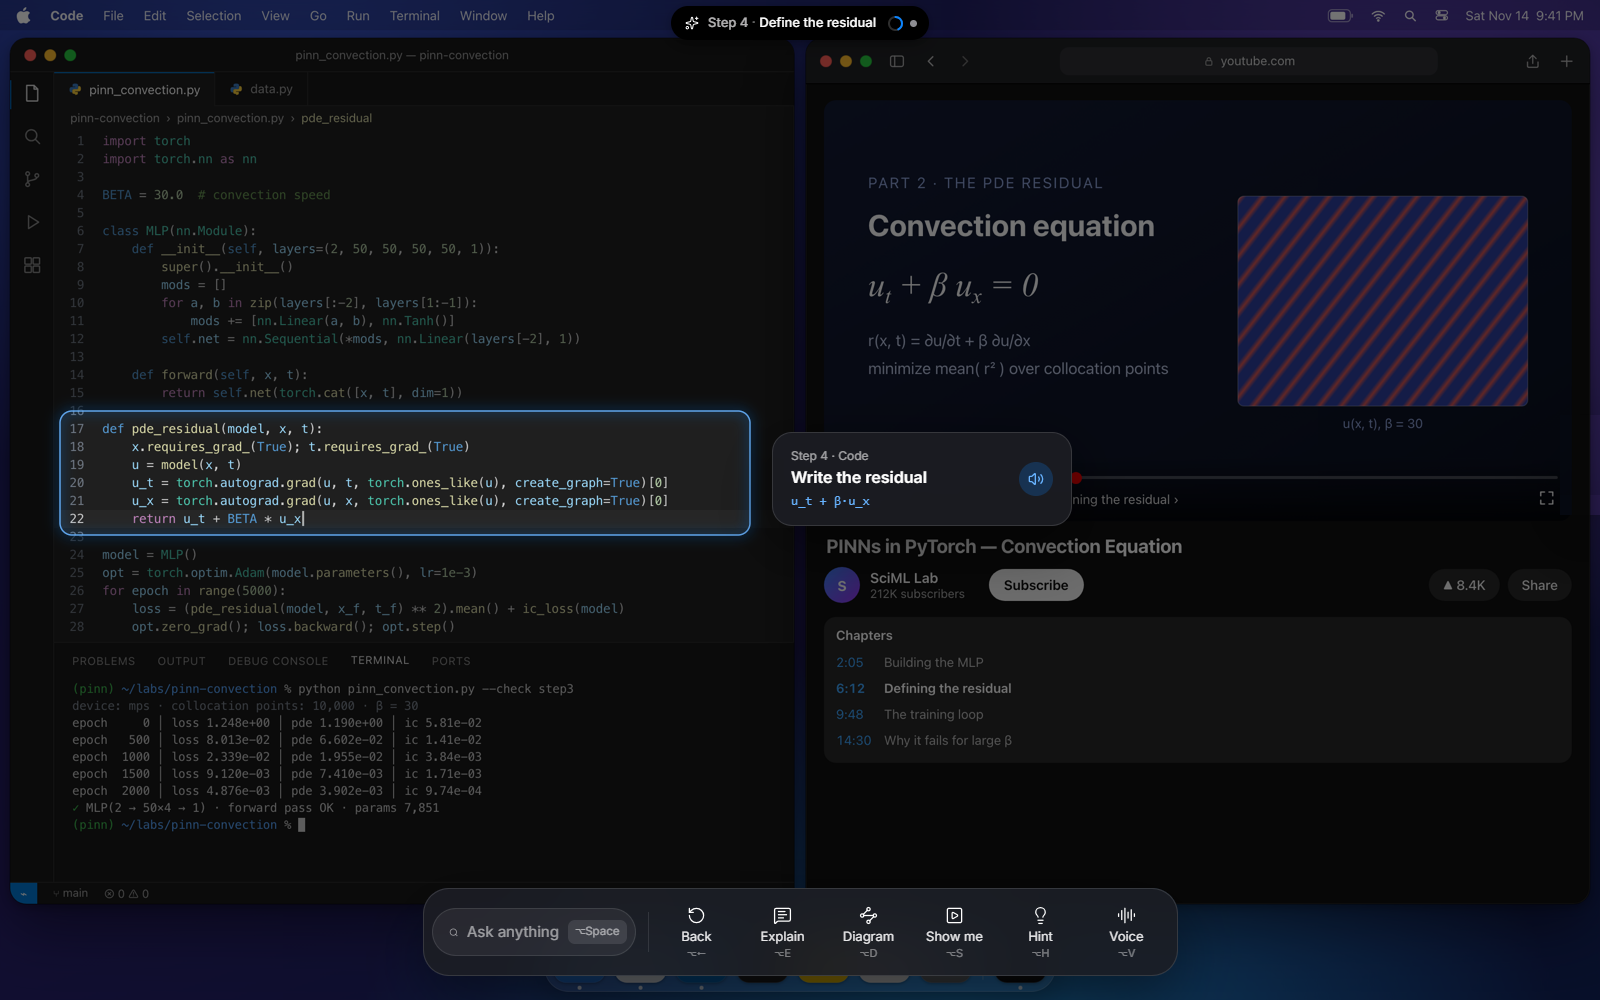
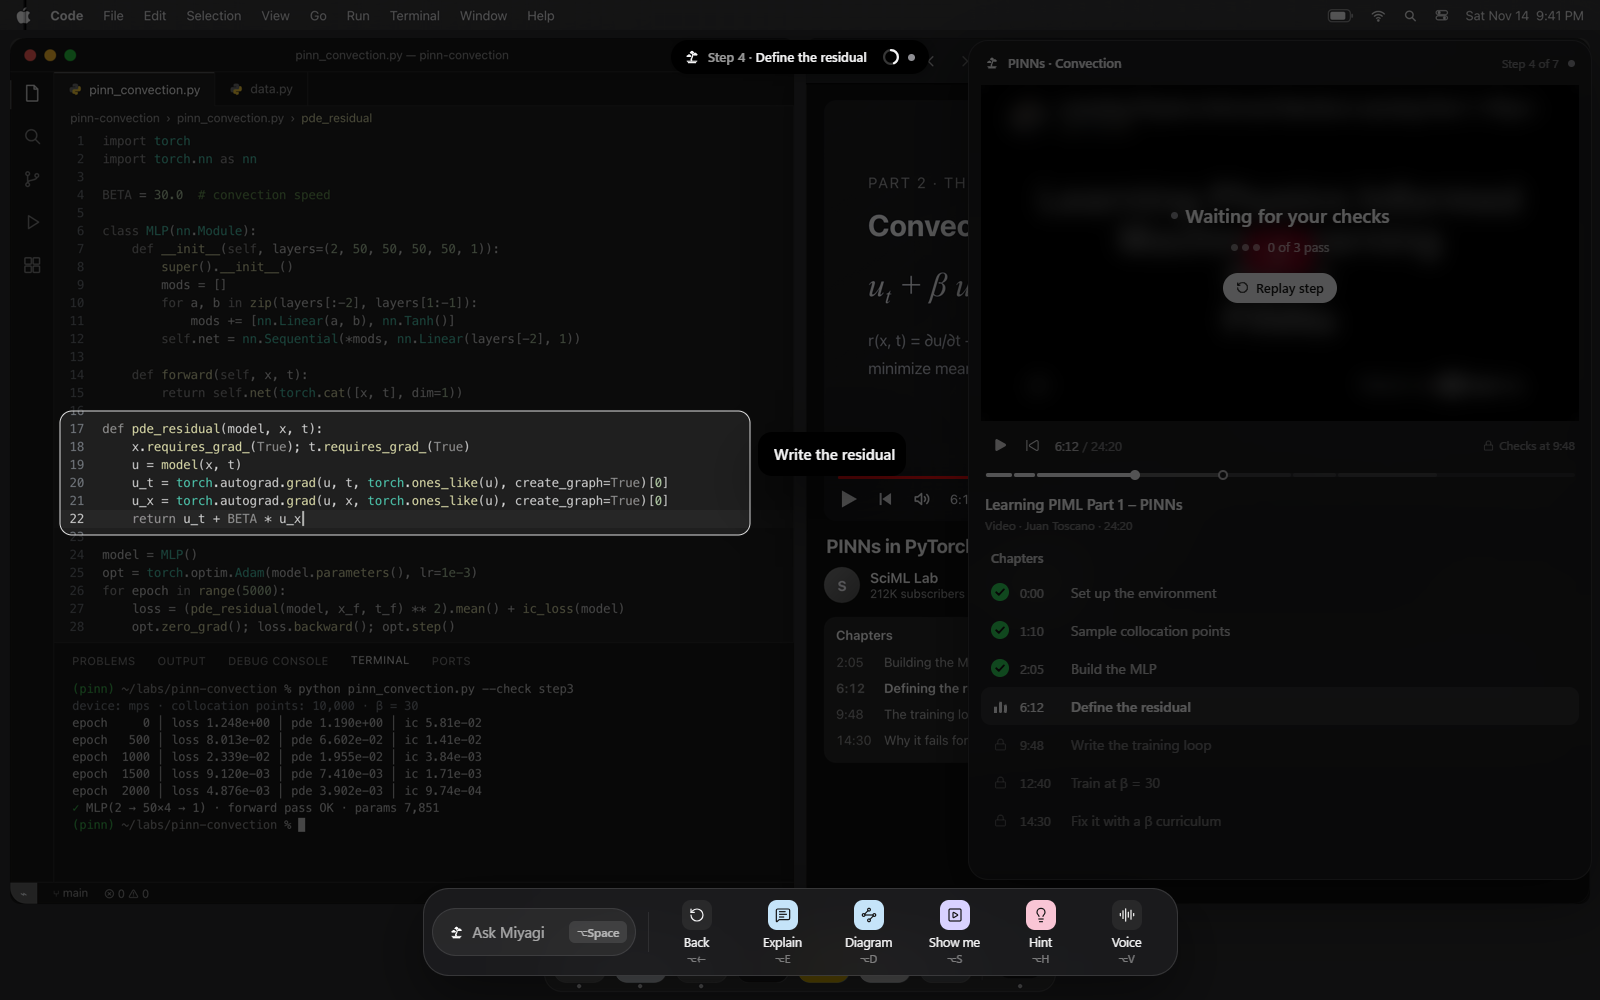
spotlight: pass 2 shots (re-shot set) + brief

diff --git a/app/agents/spotlight.md b/app/agents/spotlight.md
@@ -1,15 +1,15 @@
 # spotlight
 
-**Status:** pass 1 + Miyagi brand pass done (awaiting Adrian's review) · **Priority:** P0 · **Port:** 5178 · **Branch:** `adrian/spotlight`
+**Status:** pass 2 (functional, Michael's P0-2) done on top of UI polish's look · **Priority:** P0 · **Port:** 5178 · **Branch:** `adrian/spotlight`
 
 ## Goal
-Screen-first building mode: the engine's screen reader finds where you should work (in any app) and sends a rectangle. We dim the screen to 55%, cut a rounded glowing hole there (it springs when the target moves; the glow pulses once, then stays still), and put a small glass caption beside it with a voice button.
+Screen-first building mode: the engine's screen reader finds where you should work (in any app) and sends a rectangle. We dim the screen (`scrim.spotlight`, 66%), cut a rounded hole there edged with a white hairline (it springs when the target moves), and put a one-line island caption 8px beside it. It stays until the engine clears it, the step moves on, or the learner dismisses the card it came with.
 
 ## Owns
 - `app/src/renderer/src/features/spotlight/`
 
 ## Contract
-- **In** (engine → app): `spotlight {rect:{x,y,w,h}, caption, app?, matched?}` in screen points, or `{clear:true}`; cleared on `step.started` / `step.passed`
+- **In** (engine → app): `spotlight {rect:{x,y,w,h}, caption, app?, matched?}` in screen points, or `{clear:true}`; also `card.targets` / `offtrack.targets` (extra cut-outs). Cleared on `{clear:true}`, `step.started`, `step.passed`, `lesson.ready`, reset / `lesson.ended`, or ✕ / Esc on the card it came with. Empty / zero-size / off-screen rect → core `notify(caption)`
 - **Out** (app → engine): nothing directly; core sends `overlay.bounds` for every `data-hit` / `data-ui` element (keep the caption marked `data-ui`)
 
 ## Plugs in as
@@ -34,19 +34,29 @@ overlayLayers: spotlight (z 10)
 4. ~~(dev) Vite doesn't see a new `mock/scenarios/*.json` until the dev server restarts~~ **Done in core**: documented for all agents (`da6ea3f`).
 
 ## Notes
-**Adrian's feedback ("sleek, more contrast, a little color"), shots `agents/shots/spotlight-state-*.png`:**
+**Pass 2: functional (Michael's P0-2: "Show me / Explain / Hint must visibly point at my screen"), look unchanged from UI polish. Shots `agents/shots/spotlight-0*.png` (re-shot; the old brand/state shots are gone):**
+- **It stays.** Every `spotlight` renders the dim + cut-out and stays until `{clear:true}`, `step.started`, `step.passed` (the video resumes then; a dim over it would hide it), `lesson.ready`, reset / `lesson.ended`, or the learner dismisses the card it came with. No timeout (the 900ms pass hold is gone). Checked: still up after 9s; Esc with no card leaves it alone.
+- **It follows its card.** The card that was open when the spotlight arrived (or that opens within 1.5s after it) owns it: ✕ / Esc on that card clears the spotlight too. An off-track card under an explain card or diagram still counts as open, so closing the explain card keeps the spotlight.
+- **Nothing to point at → the pill.** An empty / non-finite / zero-size rect, or one with less than 25% of its hole on the primary display, draws no dim and calls `notify(caption)` once per target. **Gap (not spotlight's code):** no pill branch renders `lesson.notice` yet, so the notice is set but not visible.
+- **Smooth replace.** A new spotlight springs the one cut-out from the old place (no remount). A `{clear:true}` (or a new step) waits 300ms (`REPLACE_GRACE_MS`) before fading, so clear + new spotlight is a move: measured dim opacity 1.0 on all 70 frames across it. An identical re-sent spotlight (≤2pt jitter) changes nothing, not even the pulse.
+- **Multi-target.** `card.targets` / `offtrack.targets`: the engine spotlights `targets[0]`; every other on-screen target gets its own cut-out in the same dim, the same hairline at 70%, and a one-line island label above it (`data-ui`). The caption keeps clear of them. When the main spotlight moves to another target, the old one becomes an extra.
+- **Click-through.** The layer is `pointer-events: none`; the dim isn't hit-tested and isn't `data-ui`. Only the caption (and target labels) are `data-ui`; the voice button (shown only while voice is on) is `data-hit`.
+
+**How to see pass 2:** `http://localhost:5178/?scenario=full` → Ctrl+K, type, Enter, Enter. Step 5 starts ~14s in: press **Alt+H** in its first ~2s. The tour (`mock/scenarios/spotlight.json`): an off-screen rect (notice, no dim) → a hint card with 3 targets (spotlight on the optimizer, labeled extras on the loss table and `create_graph`) → the same spotlight re-sent (nothing moves) → clear + new spotlight 150ms later (the cut-out springs to the loss table, no dim flash) → it stays: press **Esc** to close the card and the spotlight with it (or wait for the step to pass).
+
+**Adrian's feedback ("sleek, more contrast, a little color"); superseded by UI polish (one white hairline, no state color):**
 - Color only carries state, the same meaning as the pill's dot and the cards: the hairline is **white** while Miyagi watches, **amber** when off track, **green** when the step passes. The ring re-pulses on each state change, and on `step.passed` it holds green for 900ms (`PASS_HOLD_MS` in `store.ts`) before fading out. A 7px status dot (gray / amber / green) leads the caption's first line.
 - More contrast: the dim is 66% (was 55%), the ring rests at 0.9 opacity (was 0.6), and the code line is bright mono at 78% (was muted).
 - Still on brand: no new hue, no glow, no gradient. If Adrian wants a decorative accent color beyond the status colors, that's a brand-kit change (`core/theme.ts`).
 
-**Brand pass (Miyagi kit, `app/brand/BRAND.md`), shots `agents/shots/spotlight-brand-*.png`:**
+**Brand pass (Miyagi kit, `app/brand/BRAND.md`); the look was later refined by UI polish:**
 - The blurred blue glow ring is gone. The ring is a crisp 1.5px white hairline (`color.accent`) over a faint `color.onAccent` keyline at 0.35, so it still reads over light apps. No SVG filters. It still springs with the cut-out and pulses once in opacity (0.6 → 1 → 0.6).
 - The outline fallback uses the same hairline (no dim).
 - Caption: system font on the brand scale (13 / 15), title in `color.text`, code in muted white mono (`color.label`, `font.mono`). The voice button is white on dark when on (`color.accent` fill, `color.onAccent` icon) and quiet glass when off (`color.hairline` fill, `color.label` icon). No blues, `color-mix` accents or hard-coded colors left, except the dim's black (Core request 3) and the mask's luminance white/black.
 - With the lesson player now docked on the right, the caption keeps off it. Step 4's caption therefore sits **below** the residual block instead of to its right (mockup 04 predates the docked player). When every ideal spot is covered, it slides along the hole to the nearest free spot (≤160pt), or takes the least-covered spot, so it never jumps across the screen. The tour's third stop moved to `create_graph=True` (lines 20–21), which now flips left because of the player.
 - The `spotlight-0*.png` shots are pre-brand (blue glow); the `spotlight-brand-*` set replaces them.
 
-**Pass 1 (what works, all checked in the stage at 1600×1000 with headless Chrome; shots in `agents/shots/spotlight-*.png`):**
+**Pass 1 (history; checked in the stage at 1600×1000 with headless Chrome):**
 - **Dim + cut-out:** black at 55%, fades in over 280ms (container opacity). Rounded hole (r 12) = target + 8pt padding, grown to at least 44×30 around its center. Step 4's rect lands at 60,411 690×124, exactly mockup 04's cut-out.
 - **Spring:** the hole is ONE set of motion values (x, y, w, h) sprung with the shared spring; the mask cut-out, glow and ring all read them (attributes written per frame, no React re-render). Retargeting mid-flight keeps velocity. Measured: ~240ms to land (`spotlight-06-spring-mid.png` is a real mid-flight frame).
 - **Glow:** pulses once per new target (0.6 → 1 → 0.6 over 1.2s, measured 0.95 at 0.6s, 0.6 at 1.5s), then stays still. A new target re-pulses; a re-sent target doesn't.
@@ -57,7 +67,7 @@ overlayLayers: spotlight (z 10)
 - **Click-through:** the layer is `pointer-events: none`; only the voice button takes the pointer. The dim itself is not `data-ui`, so the engine's OCR still reads the screen under it.
 - **Reduced motion:** no spring, no pulse, no caption slide; crossfades only.
 
-**How to see it:** `npm run dev:web -- --port 5178` → `http://localhost:5178/?scenario=full`. Ctrl+K, type anything, Enter, Enter → step 4's spotlight ~1s after the lesson builds. Step 5 starts ~14s in: press **Alt+H** within its first ~2s to play the tour (`mock/scenarios/spotlight.json`: optimizer line → loss table → `create_graph=True`, which flips the caption left of the docked player → clear). Add `&spotlight=outline` for the fallback.
+**How to see it:** see "How to see pass 2" above. Add `&spotlight=outline` for the fallback.
 
 **For Adrian (decisions / tuning):**
 - Mockup 04 reads darker than the spec's 55% (≈72% measured on its pixels); one constant, `DIM.opacity` in `Spotlight.tsx`.
